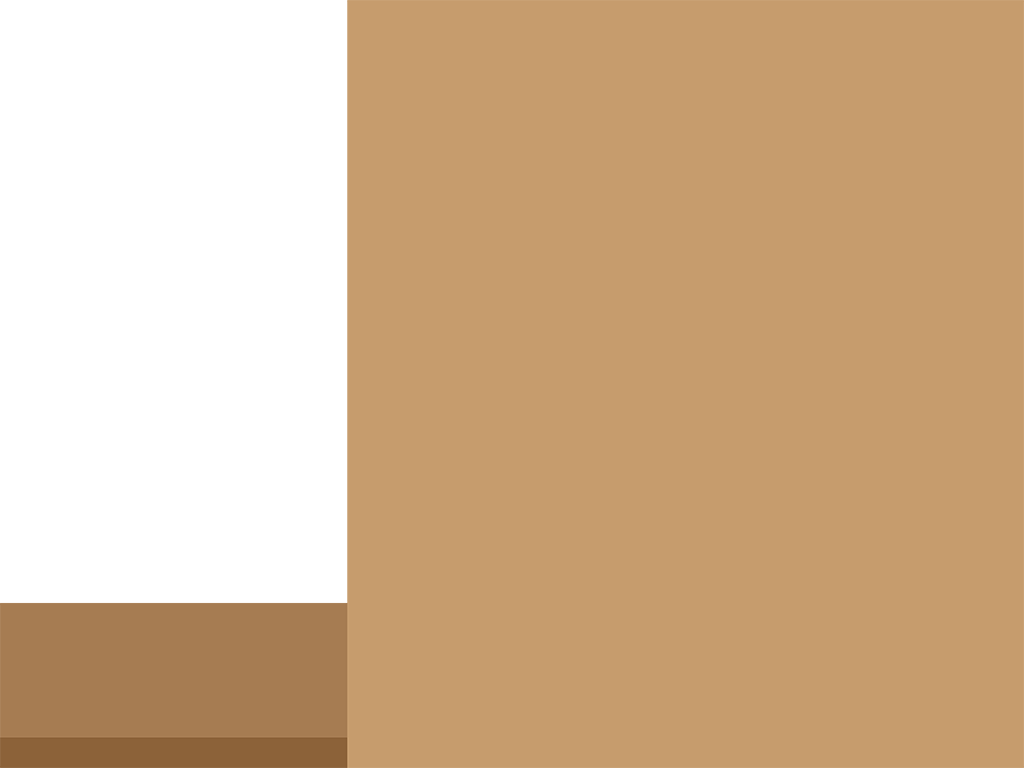
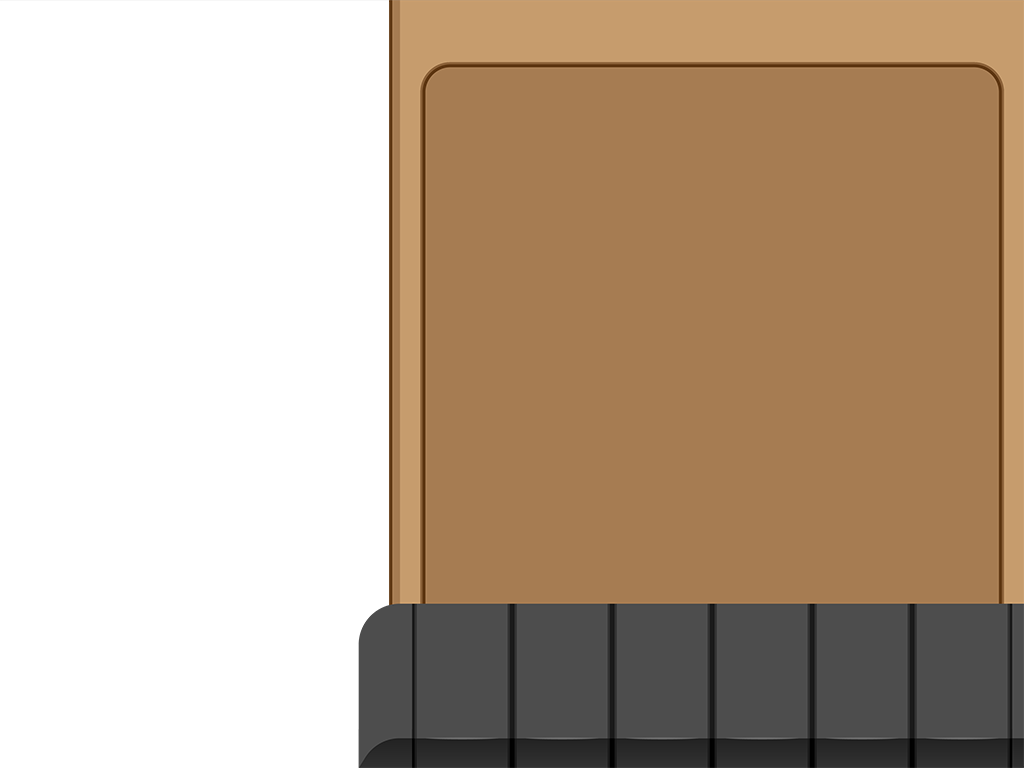
bg, pos tweak, light flashing

diff --git a/src/entities/station.ts b/src/entities/station.ts
@@ -52,8 +52,8 @@ export default class Station extends GameObjects.Group {
         this.colour = colour;
 
         const componentX = x + 16;
-        const lightY = y + 42;
-        const switchY = y + 90;
+        const lightY = y + 40;
+        const switchY = y + 70;
 
         this.socketIn = new GameObjects.Sprite(scene, componentX, y, 'plug_socket');
         this.socketIn.setOrigin(0.5, 1);

diff --git a/src/scenes/game.ts b/src/scenes/game.ts
@@ -48,8 +48,8 @@ export class Game extends Scene {
     // add stations
     this.stations = [];
 
-    const stationX = 400;
-    const stationY = 600;
+    const stationX = 425;
+    const stationY = 628;
     const stationWidth = 100;
     const colours = ['green', 'white', 'red'];
 
